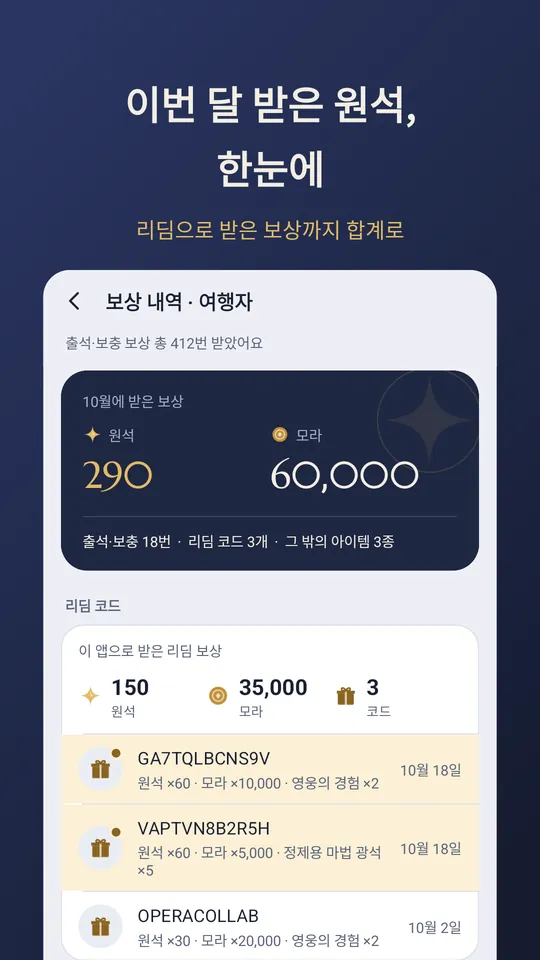
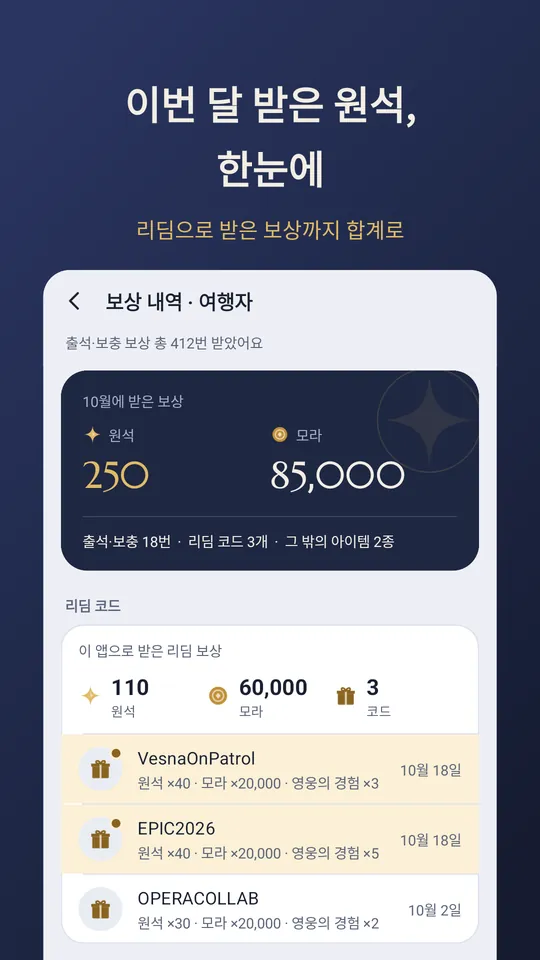
예시 리딤 코드를 실제 공개된 코드와 위키 보상으로(VesnaOnPatrol, EPIC2026, OPERACOLLAB)
스토어 스크린샷 1·3·4번과 소개 페이지 이미지도 다시 그림.

diff --git a/app/src/test/java/kr/sumi/checkin/StoreAssetsTest.kt b/app/src/test/java/kr/sumi/checkin/StoreAssetsTest.kt
@@ -93,15 +93,15 @@ class StoreAssetsTest {
         currentId = "100000000", uid = "100000000", nickname = "여행자", server = "아시아 서버", signedToday = true,
         totalDays = 17, month = 10, reward = "원석 x20", lastChecked = "10월 18일 01:03", nextRun = "내일 01:02",
         makeUpMissed = 2, redeemRole = "아시아 서버 · 여행자 (Lv.60) · UID 800000000",
-        redeemSummary = "10월 18일 01:05 · 새 코드 1개 입력: OKTCV81F9H8D", redeemShort = "새 코드 1개 입력",
+        redeemSummary = "10월 18일 01:05 · 새 코드 1개 입력: VesnaOnPatrol", redeemShort = "새 코드 1개 입력",
         redeemWhen = "10월 18일 01:05", historyUnseen = 3,
         calendar = sampleCalendar, calendarReachable = 31,
     )
 
     /** 방송 직후처럼 새 코드 여러 개를 넣은 상태. 리딤 장면 스크린샷용. */
     private val redeemed = signed.copy(
-        redeemSummary = "10월 18일 21:12 · 새 코드 3개 입력: 5T8B9KQW2RJM, GA7TQLBCNS9V, VAPTVN8B2R5H",
-        redeemShort = "새 코드 3개 입력", redeemWhen = "10월 18일 21:12",
+        redeemSummary = "10월 18일 21:12 · 새 코드 2개 입력: VesnaOnPatrol, EPIC2026",
+        redeemShort = "새 코드 2개 입력", redeemWhen = "10월 18일 21:12",
     )
 
     /**
@@ -238,7 +238,7 @@ class StoreAssetsTest {
             addView(section("알림"))
             addView(notification("오전 9:00", "보충 출석을 할 수 있어요", "이번 달에 놓친 날이 2일 있어요. 누르면 바로 보충해요."))
             addView(section("무음 · 밤에 온 알림"))
-            addView(notification("오전 1:05", "리딤 코드 3개를 받았어요", "GA7TQLBCNS9V, VAPTVN8B2R5H, 5T8B9KQW2RJM · 게임 우편함에서 받으세요."))
+            addView(notification("오전 1:05", "리딤 코드 2개를 받았어요", "VesnaOnPatrol, EPIC2026 · 게임 우편함에서 받으세요."))
             addView(notification("오전 1:03", "원신 출첵 완료", "출첵 완료! (17일째)\n보상: 원석 x20"),
                 LinearLayout.LayoutParams(MATCH_PARENT, WRAP_CONTENT).apply { topMargin = dp(8) })
         }
@@ -314,8 +314,8 @@ class StoreAssetsTest {
             title = "보상 내역 · 여행자", status = "출석·보충 보상 총 412번 받았어요", month = "2026-10",
             entries = entries, total = 412, loaded = true,
             codes = listOf(
-                RedeemedCode("GA7TQLBCNS9V", at(18), "Primogem*60;Mora*10000;Hero's Wit*2"),
-                RedeemedCode("VAPTVN8B2R5H", at(18), "Primogem*60;Mora*5000;Mystic Enhancement Ore*5"),
+                RedeemedCode("VesnaOnPatrol", at(18), "Primogem*40;Mora*20000;Hero's Wit*3"),
+                RedeemedCode("EPIC2026", at(18), "Primogem*40;Mora*20000;Hero's Wit*5"),
                 RedeemedCode("OPERACOLLAB", at(2), "Primogem*30;Mora*20000;Hero's Wit*2"),
             ),
             newAwardKeys = setOf("18"), seenRedeemAt = at(10),

diff --git a/app/src/test/java/kr/sumi/checkin/MainScreenSnapshotTest.kt b/app/src/test/java/kr/sumi/checkin/MainScreenSnapshotTest.kt
@@ -27,7 +27,7 @@ class MainScreenSnapshotTest {
         loggedIn = true, accounts = listOf(AccountChip("100000000", "여행자", true), AccountChip("100000001", "부계정", false)),
         currentId = "100000000", uid = "100000000", nickname = "여행자", server = "아시아 서버", signedToday = true, totalDays = 17, month = 10,
         reward = "원석 x20", lastChecked = "10월 18일 21:04", nextRun = "내일 01:03", makeUpMissed = 2,
-        redeemRole = "아시아 서버 · 여행자 (Lv.60) · UID 800000000", redeemSummary = "10월 18일 01:04 · 새 코드 1개 입력: OKTCV81F9H8D", redeemShort = "새 코드 1개 입력", redeemWhen = "10월 18일 01:04", historyUnseen = 3,
+        redeemRole = "아시아 서버 · 여행자 (Lv.60) · UID 800000000", redeemSummary = "10월 18일 01:04 · 새 코드 1개 입력: VesnaOnPatrol", redeemShort = "새 코드 1개 입력", redeemWhen = "10월 18일 01:04", historyUnseen = 3,
         calendar = sampleCalendar, calendarReachable = 30, calendarMissed = 1,
     )
     private val waiting = MainUiState(

diff --git a/app/src/test/java/kr/sumi/checkin/HistorySnapshotTest.kt b/app/src/test/java/kr/sumi/checkin/HistorySnapshotTest.kt
@@ -32,8 +32,8 @@ class HistorySnapshotTest {
         total = 412,
         loaded = true,
         codes = listOf(
-            RedeemedCode("GA7TQLBCNS9V", at(18, 21), "Primogem*60;Mora*10000;Hero's Wit*2"),
-            RedeemedCode("5T8B9KQW2RJM", at(18, 21), null),
+            RedeemedCode("VesnaOnPatrol", at(18, 21), "Primogem*40;Mora*20000;Hero's Wit*3"),
+            RedeemedCode("GENSHINGIFT", at(18, 21), null),
             RedeemedCode("OPERACOLLAB", at(2, 12), "Primogem*30;Mora*20000;Hero's Wit*2"),
         ),
         newAwardKeys = setOf("18"),
